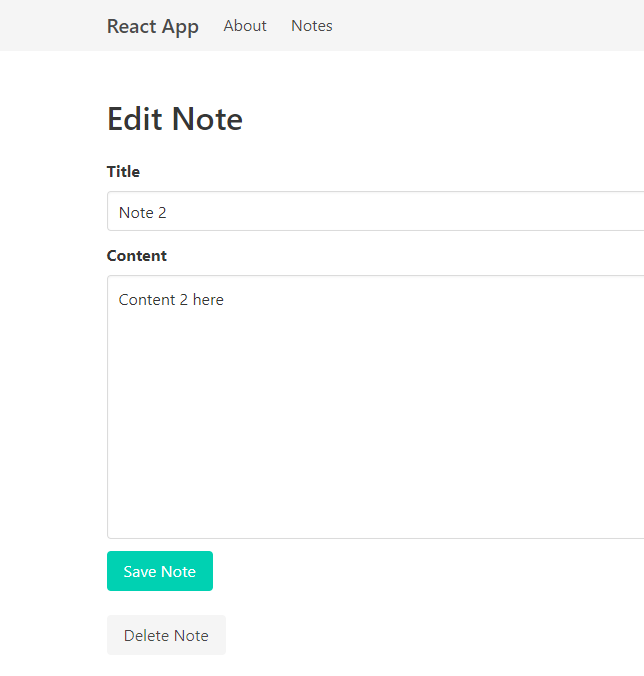
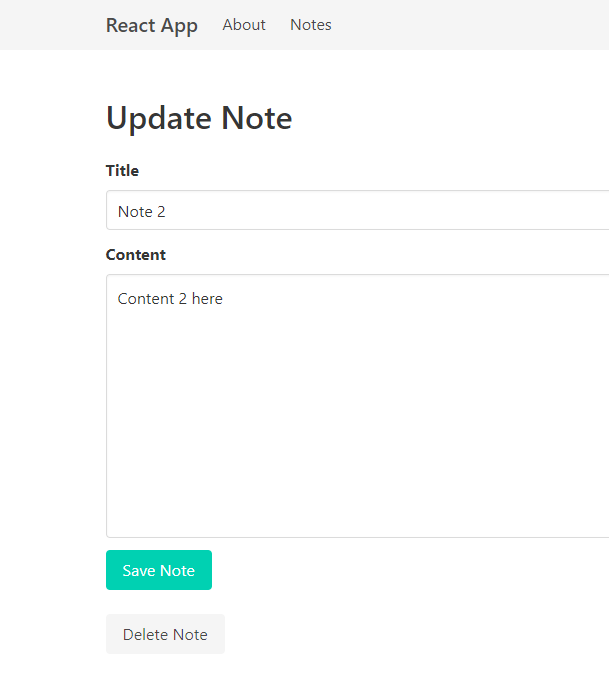
Update images

diff --git a/2020/2020-09-14_CRUD Web App ReactJS and .NET Core 2/src/WebApp/FrontEndApp/src/components/notes/UpdateNotePage.js b/2020/2020-09-14_CRUD Web App ReactJS and .NET Core 2/src/WebApp/FrontEndApp/src/components/notes/UpdateNotePage.js
@@ -58,7 +58,7 @@ class UpdateNotePage extends React.Component {
     render() {
         return (
           <Fragment>
-          <MainTitle>Edit Note</MainTitle>
+          <MainTitle>Update Note</MainTitle>
           <NoteForm
               onSubmit={this.handleSubmit}
               initialState={this.state.note} />

diff --git a/2020/2020-09-14_CRUD Web App ReactJS and .NET Core 2/Post.md b/2020/2020-09-14_CRUD Web App ReactJS and .NET Core 2/Post.md
@@ -342,7 +342,10 @@ Bulma is a popular CSS styling framework. The following steps are for installing
 
 8. At this point, the notes page will encounter an error if the notes Web API is not running. In the next section, we add a mock API to remove the reliance on the Web API while in development.
 
-![notes](notes.PNG)
+<figure>
+  <img src="notes.PNG" alt="notes page"/>
+  <figcaption>The Notes page</figcaption>
+</figure>
 
 ## 6. <a name='mock'></a>Add API Mock
 
@@ -407,7 +410,10 @@ Bulma is a popular CSS styling framework. The following steps are for installing
 
 7. Execute `npm run dev` and navigate to the notes page. Now, you should see the notes being loaded from the mock API.
 
-![notes mock](notesMock.PNG)
+<figure>
+  <img src="notesMock.PNG" alt="notes page with mock"/>
+  <figcaption>The Notes page with mocked API</figcaption>
+</figure>
 
 ## 7. <a name='create'></a>Add Create Note Page
 
@@ -597,9 +603,15 @@ Bulma is a popular CSS styling framework. The following steps are for installing
    export default App;
    ```
 
-![create note button](addNote.PNG)
+<figure>
+  <img src="addNote.PNG" alt="create note button"/>
+  <figcaption>The Create Note buton</figcaption>
+</figure>
 
-![create note form](addNote2.PNG)
+<figure>
+  <img src="addNote2.PNG" alt="create note page"/>
+  <figcaption>The Create Note page</figcaption>
+</figure>
 
 ## 8. <a name='update'></a>Add Update Note Page
 
@@ -730,7 +742,10 @@ Bulma is a popular CSS styling framework. The following steps are for installing
    export default App;
    ```
 
-![update note form](updateNote.PNG)
+<figure>
+  <img src="updateNote.PNG" alt="update note"/>
+  <figcaption>The Update Note page</figcaption>
+</figure>
 
 ## 9. <a name='delete'></a>Add Delete Note Functionality
 
@@ -792,7 +807,10 @@ Bulma is a popular CSS styling framework. The following steps are for installing
    ...
    ```
 
-![delete](deleteNote.PNG)
+<figure>
+  <img src="deleteNote.PNG" alt="delete note"/>
+  <figcaption>The Delete Note button</figcaption>
+</figure>
 
 ## 10. <a name='conclusion'></a>Conclusion
 
